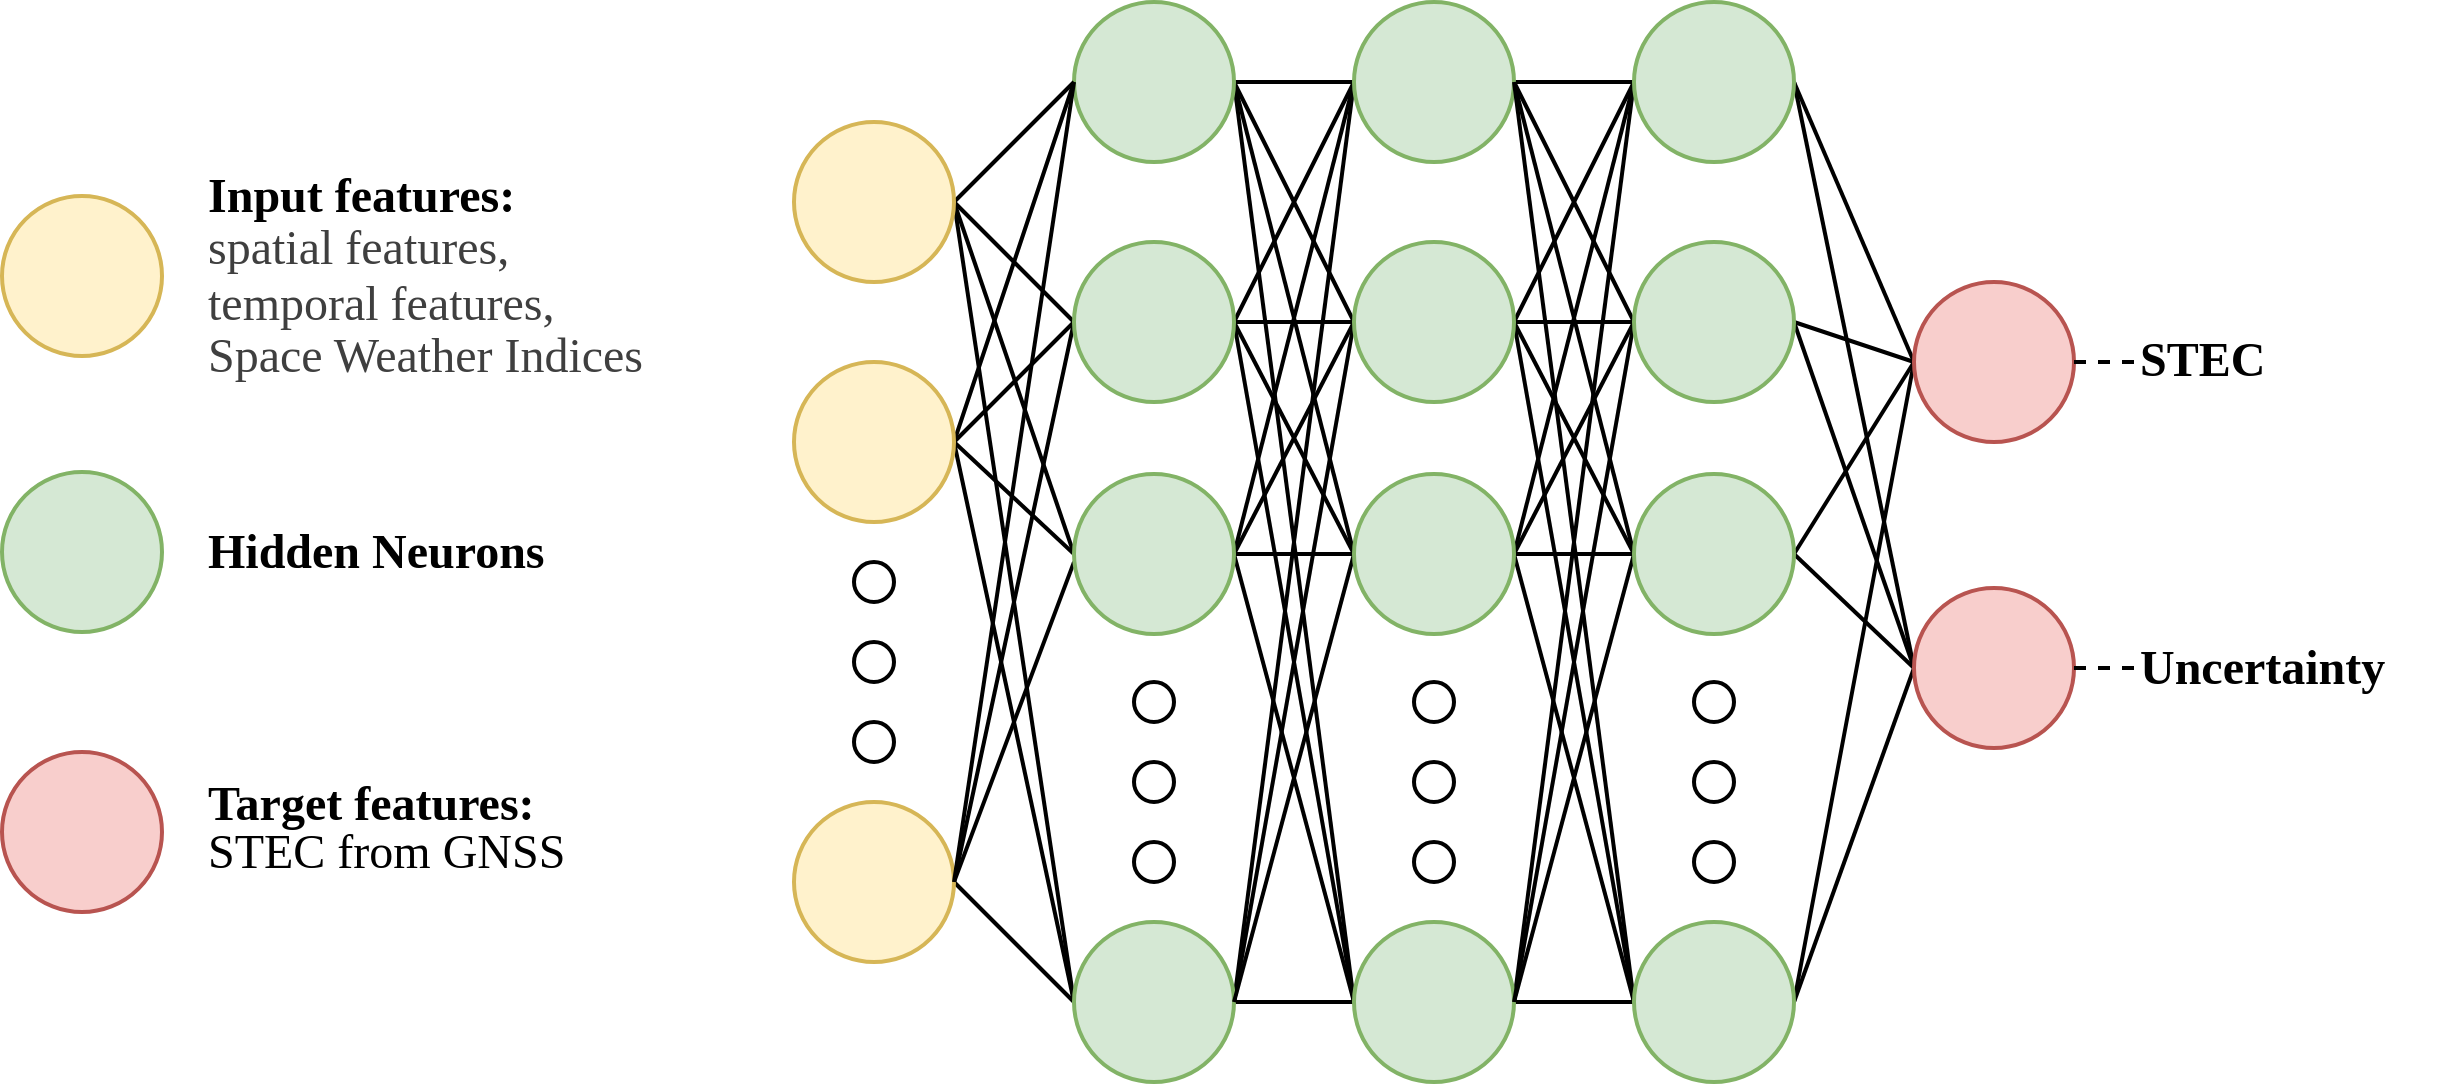
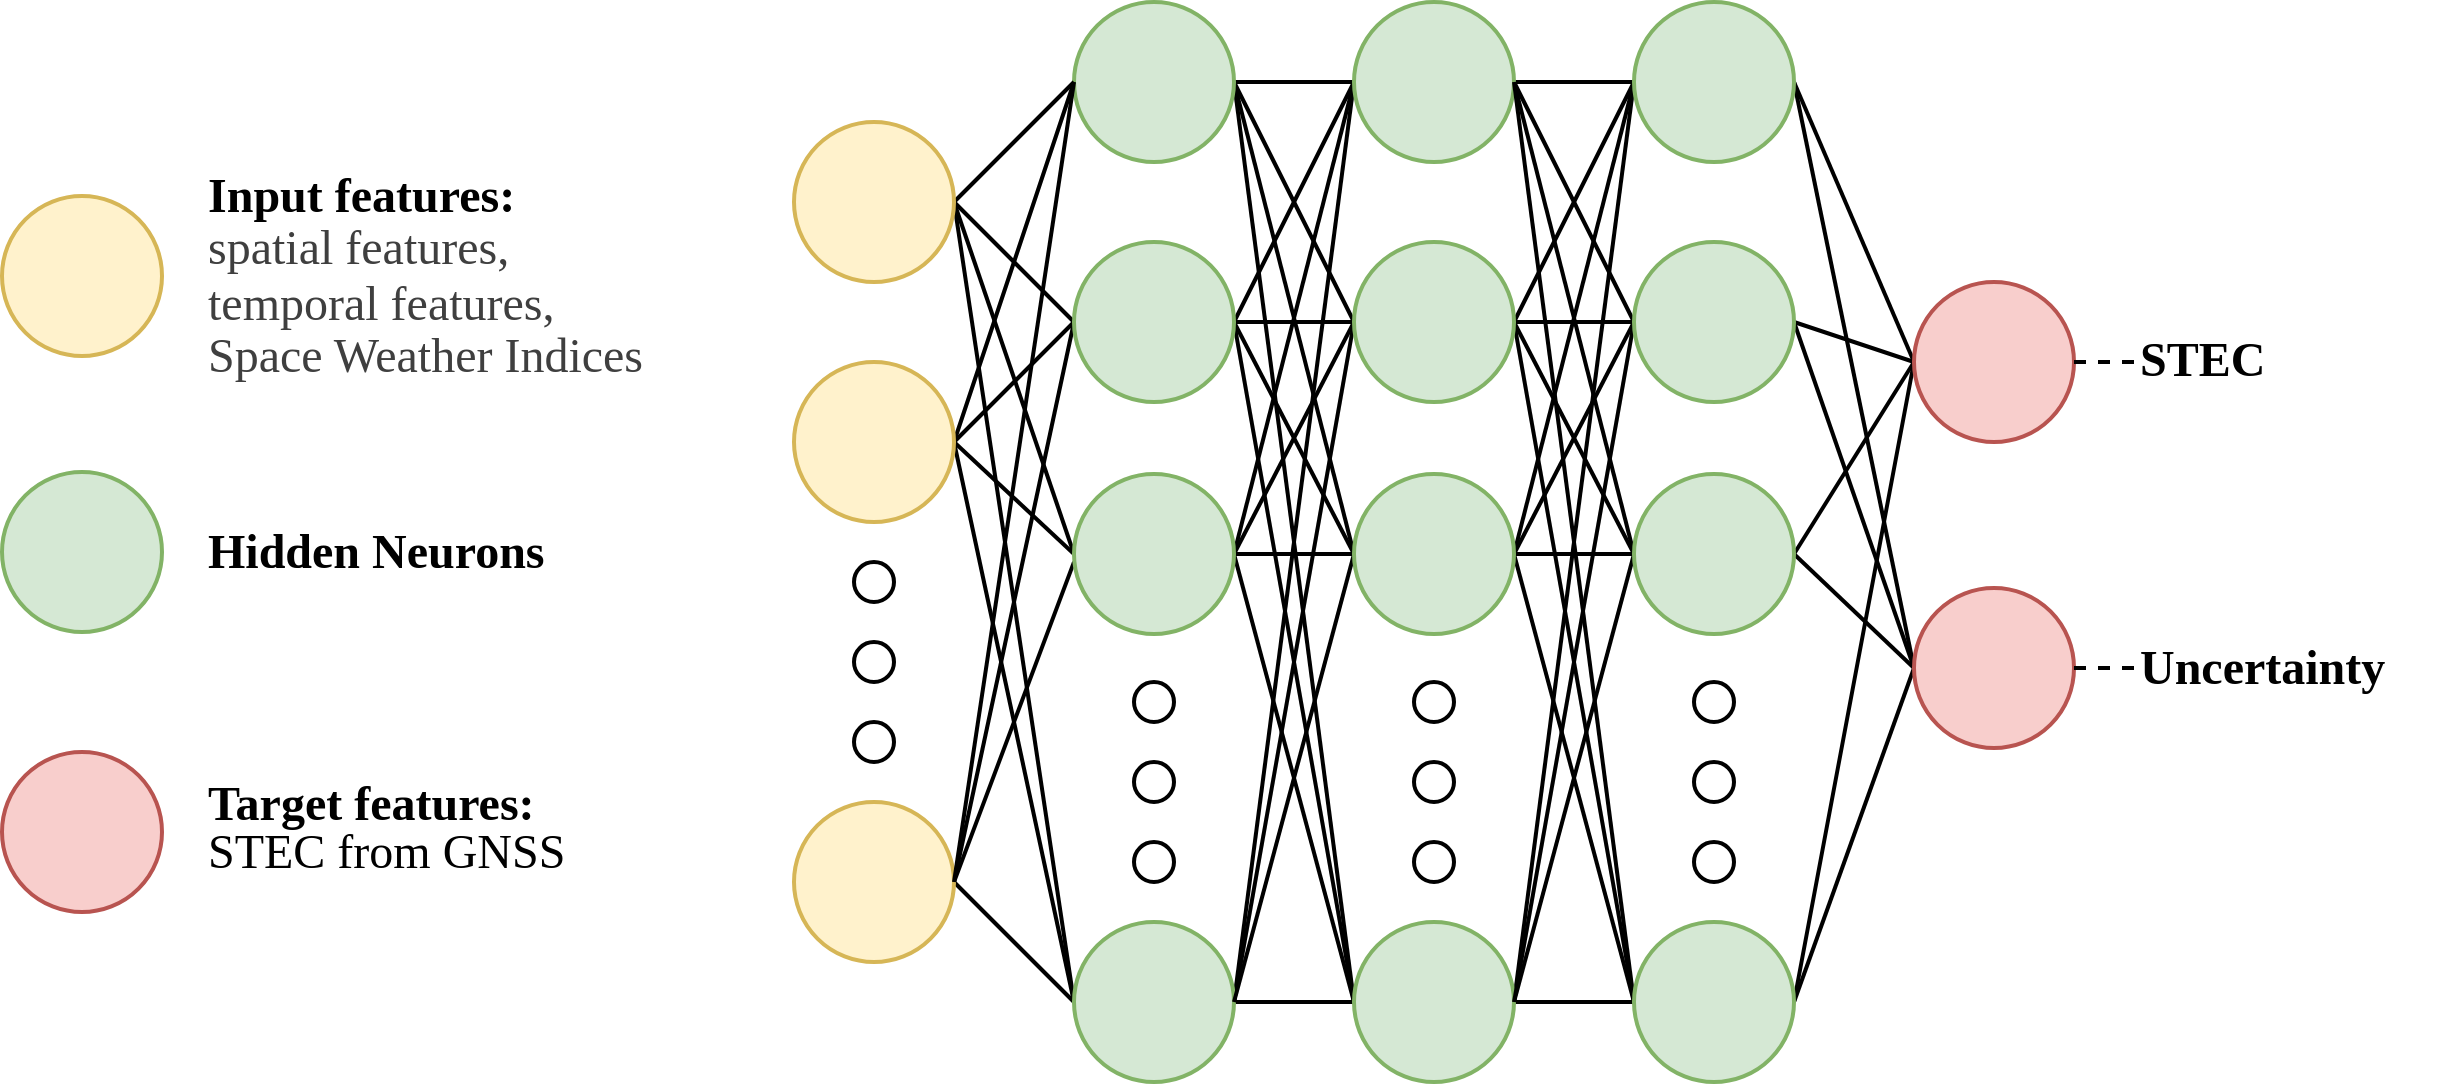
fixed inference to use all input feature columns

diff --git a/src/utils/plot.py b/src/utils/plot.py
@@ -68,7 +68,7 @@ def plot_binned_boxplot(df, x_col, y_col, bins=20, output_dir='plots', bin_range
     
     # Create boxplot with better styling
     bp = ax.boxplot(box_data, labels=x_labels, showfliers=False, zorder=2,
-                   patch_artist=True, notch=True)
+                   patch_artist=True, notch=False)
     
     # Style the boxplot
     for patch in bp['boxes']:
@@ -97,7 +97,7 @@ def plot_binned_boxplot(df, x_col, y_col, bins=20, output_dir='plots', bin_range
 def get_scientific_label(column_name):
     """Convert column names to scientific presentation labels"""
     label_mapping = {
-        'target_stec': 'Ground Truth STEC [TECU]',
+        'target_stec': 'True STEC [TECU]',
         'pred_stec': 'Predicted STEC [TECU]',
         'residual': 'Residual [TECU]',
         'mae': 'Mean Absolute Error [TECU]',
@@ -135,6 +135,85 @@ def plot_residuals_vs_feature(df, feature, num_bins=24, output_dir='plots', bin_
     df = df.copy()
     df['residual'] = df['target_stec'] - df['pred_stec']
     plot_binned_boxplot(df, feature, 'residual', bins=num_bins, output_dir=output_dir, bin_range_dict=bin_range_dict)
+
+
+def plot_binned_boxplot_clipped(df, x_col, y_col, bins=20, output_dir='plots', bin_range_dict=None, 
+                               x_limits=None, y_limits=None, suffix='_clipped'):
+    """
+    Plots a boxplot of y_col values grouped by binned x_col intervals with axis clipping.
+    Allows feature-specific min/max binning through bin_range_dict.
+    
+    Args:
+        df: DataFrame with data
+        x_col: Column name for x-axis
+        y_col: Column name for y-axis  
+        bins: Number of bins
+        output_dir: Output directory
+        bin_range_dict: Dictionary with bin ranges
+        x_limits: Tuple (x_min, x_max) for x-axis limits
+        y_limits: Tuple (y_min, y_max) for y-axis limits
+        suffix: Suffix to add to filename
+    """
+    df = df.copy()
+
+    # Determine min and max from bin_range_dict if provided
+    if bin_range_dict and x_col in bin_range_dict:
+        min_val, max_val = bin_range_dict[x_col]
+        bin_edges = np.linspace(min_val, max_val, bins + 1)
+        df['x_bin'] = pd.cut(df[x_col], bins=bin_edges, include_lowest=True)
+    else:
+        df['x_bin'] = pd.cut(df[x_col], bins=bins)
+
+    grouped = df.groupby('x_bin')[y_col].apply(list)
+    box_data = [grouped[bin] for bin in grouped.index]
+    x_labels = [f"{(b.left):.0f}–{b.right:.0f}" for b in grouped.index]
+
+    fig, ax = plt.subplots(figsize=FIGSIZE_HISTOGRAM)
+    
+    # Add zero reference line
+    ax.axhline(y=0, color='red', linestyle='-', linewidth=2, zorder=1, alpha=0.8)
+    
+    # Create boxplot with better styling
+    bp = ax.boxplot(box_data, labels=x_labels, showfliers=False, zorder=2,
+                   patch_artist=True, notch=False)
+    
+    # Style the boxplot
+    for patch in bp['boxes']:
+        patch.set_facecolor('lightblue')
+        patch.set_alpha(0.7)
+    for element in ['whiskers', 'caps', 'medians']:
+        for item in bp[element]:
+            item.set_linewidth(2)
+    
+    # Apply axis limits if specified
+    if x_limits:
+        ax.set_xlim(x_limits)
+    if y_limits:
+        ax.set_ylim(y_limits)
+    
+    ax.tick_params(axis='x', rotation=45, labelsize=18)
+    
+    # Improved axis labels based on column names
+    x_label = get_scientific_label(x_col)
+    y_label = get_scientific_label(y_col)
+    
+    ax.set_xlabel(x_label, fontweight='bold')
+    ax.set_ylabel(y_label, fontweight='bold')
+    ax.set_title(f'{y_label} vs {x_label}', fontweight='bold', pad=20)
+    
+    plt.tight_layout()
+    filename = f'{output_dir}/{y_col}_vs_{x_col}_boxplot{suffix}.png'
+    plt.savefig(filename, dpi=300, bbox_inches='tight')
+    plt.close()
+
+
+def plot_residuals_vs_feature_clipped(df, feature, num_bins=24, output_dir='plots', bin_range_dict=None,
+                                     x_limits=None, y_limits=None):
+    """Plot residuals vs any feature with axis clipping"""
+    df = df.copy()
+    df['residual'] = df['target_stec'] - df['pred_stec']
+    plot_binned_boxplot_clipped(df, feature, 'residual', bins=num_bins, output_dir=output_dir, 
+                               bin_range_dict=bin_range_dict, x_limits=x_limits, y_limits=y_limits)
 
 
 def plot_prediction_scatter(df, output_dir):
@@ -817,7 +896,7 @@ def plot_residuals_vs_date(df, output_dir='plots'):
     
     # Create boxplot with improved styling
     bp = ax.boxplot(box_data, labels=month_labels, showfliers=False, zorder=2,
-                   patch_artist=True, notch=True)
+                   patch_artist=True, notch=False)
     
     # Style the boxplot
     for patch in bp['boxes']:
@@ -889,6 +968,12 @@ def plot_test_metrics(test_df, output_dir='plots', feature_registry=None):
         if feature in available_features:
             plot_residuals_vs_feature(test_df, feature, num_bins=num_bins, 
                                     output_dir=output_dir, bin_range_dict=bin_range_dict)
+            
+            # Create clipped version for target_stec
+            if feature == 'target_stec':
+                plot_residuals_vs_feature_clipped(test_df, feature, num_bins=num_bins, 
+                                                output_dir=output_dir, bin_range_dict=bin_range_dict,
+                                                x_limits=None, y_limits=(-100, 100))
 
     plot_prediction_scatter(test_df, output_dir)
     

diff --git a/src/data_processing/split_new.py b/src/data_processing/split_new.py
@@ -118,7 +118,9 @@ def plot_station_distribution(train_stations, val_stations, test_stations, outpu
     fig, ax = plt.subplots(figsize=(14, 8), subplot_kw={'projection': ccrs.PlateCarree()})
     
     # Add colorful stock image background
-    ax.stock_img()  # This gives the colorful satellite imagery background
+    ax.add_feature(cfeature.LAND, edgecolor='black', facecolor="#FFFFFF")
+    ax.add_feature(cfeature.OCEAN, facecolor="#ffffff")
+    ax.add_feature(cfeature.COASTLINE, edgecolor='black')  # Add coastlines
     
     # Add gridlines with better formatting
     gl = ax.gridlines(draw_labels=True, linewidth=0.8, color='gray', 
@@ -131,27 +133,20 @@ def plot_station_distribution(train_stations, val_stations, test_stations, outpu
     scatter_size = 35
     alpha = 1.0  # Fully opaque
     
-    # For dense areas, add slight random jitter to improve visibility
-    def add_jitter(lons, lats, jitter_amount=0.1):
-        """Add small random offset to coordinates for better visibility of overlapping points"""
-        jittered_lons = lons + np.random.normal(0, jitter_amount, len(lons))
-        jittered_lats = lats + np.random.normal(0, jitter_amount, len(lats))
-        return jittered_lons, jittered_lats
-    
     # Apply minimal jitter to help with overlapping stations
-    train_lon_j, train_lat_j = add_jitter(train_stations['lon'].values, train_stations['lat'].values)
-    val_lon_j, val_lat_j = add_jitter(val_stations['lon'].values, val_stations['lat'].values)
-    test_lon_j, test_lat_j = add_jitter(test_stations['lon'].values, test_stations['lat'].values)
-    
+    train_lon_j, train_lat_j = train_stations['lon'].values, train_stations['lat'].values
+    val_lon_j, val_lat_j = val_stations['lon'].values, val_stations['lat'].values
+    test_lon_j, test_lat_j = test_stations['lon'].values, test_stations['lat'].values
+
     # Use slightly darker colors for the perfect balance
     train_scatter = ax.scatter(train_lon_j, train_lat_j, 
-                              s=scatter_size, c="#0064d6ef", label='Training',  # Slightly darker red
+                              s=scatter_size, c="#215ACC", label='Training',  # Slightly darker red
                               zorder=3, alpha=alpha)
     val_scatter = ax.scatter(val_lon_j, val_lat_j, 
-                            s=scatter_size, c='#ff7f0e', label='Validation',  # Slightly darker green
+                            s=scatter_size, c="#5ACC21", label='Validation',  # Slightly darker green
                             zorder=4, alpha=alpha)
     test_scatter = ax.scatter(test_lon_j, test_lat_j, 
-                             s=scatter_size, c='#d62728', label='Test',  # Slightly darker blue
+                             s=scatter_size, c="#CC215A", label='Test',  # Slightly darker blue
                              zorder=5, alpha=alpha)
     
     # Add simplified title
@@ -181,9 +176,9 @@ def plot_station_distribution(train_stations, val_stations, test_stations, outpu
     
     # Set global extent
     ax.set_global()
-    
-    # Save with high quality
-    plt.savefig(output_file, bbox_inches='tight', dpi=300, facecolor='white')
+
+    # Save with high quality and transparent background
+    plt.savefig(output_file, bbox_inches='tight', dpi=300, transparent=True)
     plt.close()
     
     print(f"Station distribution map saved to: {output_file}")

diff --git a/src/utils/config_parser.py b/src/utils/config_parser.py
@@ -85,6 +85,9 @@ def compute_exp_name(config: dict) -> str:
     subset_size = config['data'].get('train_subset_size', 500_000)
     use_swi = config['data'].get('use_SWI', False)
     log_target = config['training'].get('log_target', False)
+    target_weighting_config = config['training'].get('target_weighting', {})
+    target_weighting_enabled = target_weighting_config.get('enabled', False)
+    target_weighting_function = target_weighting_config.get('weight_function', 'linear')
     target = config.get('target', 'stec').upper()  # Add target type (STEC/VTEC)
     
     # Create abbreviated versions for cleaner names
@@ -109,14 +112,17 @@ def compute_exp_name(config: dict) -> str:
     else:
         subset_str = f"_sub{subset_size}"
     
-    # Only add SWI and log_target if they're enabled (non-default)
+    # Only add SWI, log_target and target_weighting if they're enabled (non-default)
     swi_str = "_SWI" if use_swi else ""
     log_str = "_logTgt" if log_target else ""
+    tw_str = f"_TW{target_weighting_function}" if target_weighting_enabled else ""
     
     if mode == 'finetune':
-        exp_name = f"Finetune_{target}_{config['year']}_{config['doy']}_{model}_h{hidden_dim}_l{num_layers}_lr{lr_str}_bs{batch_size}_{loss_fn_short}_{optimizer}_{scheduler_short}{subset_str}_SH{sh_degree}{weight_decay_str}{loss_weight_str}{swi_str}{log_str}"
+        exp_name = f"Finetune_{target}_{config['year']}_{config['doy']}_{model}_h{hidden_dim}_l{num_layers}_lr{lr_str}_bs{batch_size}_{loss_fn_short}_{optimizer}_{scheduler_short}{subset_str}_SH{sh_degree}{weight_decay_str}{loss_weight_str}{swi_str}{log_str}{tw_str}"
     elif mode == 'pretrain':
-        exp_name = f"Pretrain_{target}_{model}_h{hidden_dim}_l{num_layers}_lr{lr_str}_bs{batch_size}_{loss_fn_short}_{optimizer}_{scheduler_short}{subset_str}_SH{sh_degree}{weight_decay_str}{loss_weight_str}{swi_str}{log_str}"
+        exp_name = f"Pretrain_{target}_{model}_h{hidden_dim}_l{num_layers}_lr{lr_str}_bs{batch_size}_{loss_fn_short}_{optimizer}_{scheduler_short}{subset_str}_SH{sh_degree}{weight_decay_str}{loss_weight_str}{swi_str}{log_str}{tw_str}"
+    else:
+        raise ValueError(f"Unknown mode: {mode}")
     
     return exp_name
 

diff --git a/src/inference.py b/src/inference.py
@@ -318,36 +318,20 @@ def run_inference_pipeline(config, experiment_dir, checkpoint_path):
     model_type = config['model']['model_type']
     is_bayesian = 'BNN' in model_type
     
-    if is_bayesian:
-        # Use BaseTrainer's Bayesian inference method
-        num_samples = 100
-        bayesian_results, test_df = trainer.bayesian_inference_total_uncertainty(
-            model, test_loader, num_samples=num_samples
-        )
-        
-        # Extract outputs and targets for metrics calculation
-        test_outputs = torch.stack([
-            bayesian_results['mean'],
-            bayesian_results['total_std']
-        ], dim=1)
-        test_targets = bayesian_results['targets']
-        
-    else:
-        # Use BaseTrainer's standard test method
-        test_outputs, test_targets = trainer.test_model(model, test_loader)
-        
-        # Create dataframe for plotting (simplified for non-Bayesian)
-        predictions = test_outputs[:, 0].numpy().flatten()
-        uncertainties = test_outputs[:, 1].numpy().flatten()
-        targets = test_targets.numpy().flatten()
-        
-        test_df = pd.DataFrame({
-            'target_stec': targets,
-            'pred_stec': predictions,
-            'pred_total_unc': uncertainties,
-            'pred_epistemic_unc': uncertainties * 0.1,  # Dummy values for non-Bayesian
-            'pred_aleatoric_unc': uncertainties * 0.9,
-        })
+    # Use Bayesian inference for both BNN and non-BNN models
+    # For non-BNN models, use num_samples=1 to get the same feature extraction
+    num_samples = 100 if is_bayesian else 1
+    
+    bayesian_results, test_df = trainer.bayesian_inference_total_uncertainty(
+        model, test_loader, num_samples=num_samples
+    )
+    
+    # Extract outputs and targets for metrics calculation
+    test_outputs = torch.stack([
+        bayesian_results['mean'],
+        bayesian_results['total_std']
+    ], dim=1)
+    test_targets = bayesian_results['targets']
     
     # Calculate metrics
     metrics = calculate_metrics(test_outputs, test_targets, prefix="test")
